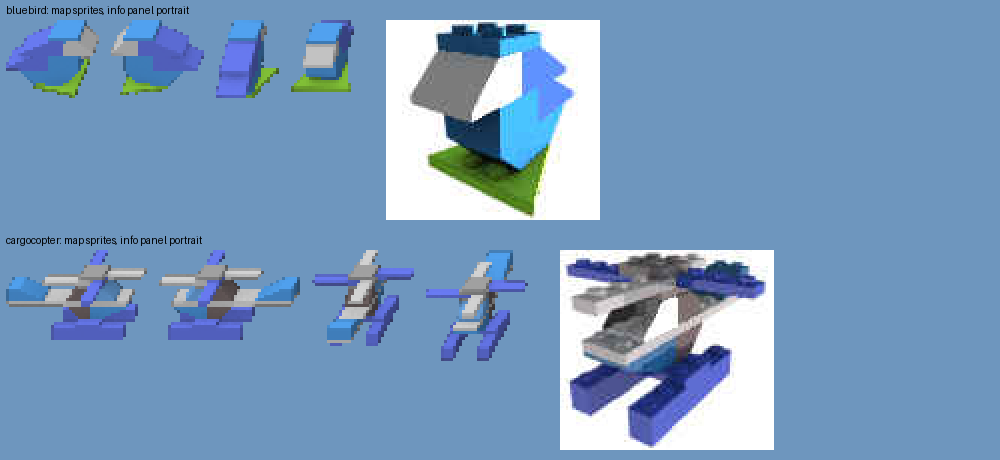
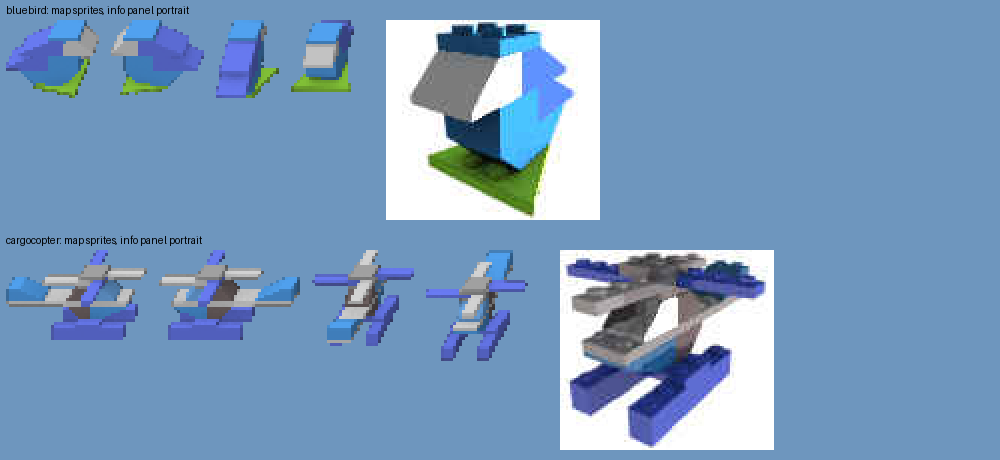
The Airport is the control tower, lit as the robot lab is
- The Airport unit renders our control tower model, framed and lit as
  the game's robot lab is; the building and group variants dropped.
- Borrowed rigs keep the lender's own white, and a colour carried over
  is at least as strong as the lender's own saturated colours (the
  tower's red roof was maroon).
- Showcase: the Airport beside the robot lab; portraits re-rendered.

Changed region(s): [[0.558, 0.6391, 0.744, 0.7913], [0.558, 0.5783, 0.682, 0.7], [0.682, 0.5478, 0.713, 0.5783]]

diff --git a/tools/showcase.py b/tools/showcase.py
@@ -96,12 +96,9 @@ def main():
         c.paste(hero.resize((hero.width * 2, hero.height * 2), Image.NEAREST), (x + 20, yy))
         y += max(max(i.height * S for i in s_), hero.height * 2) + 30
     c.save(os.path.join(OUT, 'new_units.png'))
-    # the Airport, our own models, beside the game's buildings each is framed as
-    cols = [('house (game)', os.path.join(HERE, 'reference', 'building.house.png'), os.path.join(HERE, 'reference', 'building.house.hero.png')),
-            ('airport', out('airport', 'building.airport.png'), out('airport', 'building.airport.hero.png')),
-            ('airport building', out('airport_building', 'building.airport_building.png'), out('airport_building', 'building.airport_building.hero.png')),
-            ('robot lab (game)', os.path.join(HERE, 'reference', 'building.robot_lab.png'), os.path.join(HERE, 'reference', 'building.robot_lab.hero.png')),
-            ('control tower', out('airport_tower', 'building.airport_tower.png'), out('airport_tower', 'building.airport_tower.hero.png'))]
+    # the Airport, the control tower of our own models, beside the game's robot lab it is framed as
+    cols = [('robot lab (game)', os.path.join(HERE, 'reference', 'building.robot_lab.png'), os.path.join(HERE, 'reference', 'building.robot_lab.hero.png')),
+            ('airport (control tower)', out('airport', 'building.airport.png'), out('airport', 'building.airport.hero.png'))]
     S2 = 2
     ims = [(n, Image.open(a).convert('RGBA'), Image.open(b).convert('RGB')) for n, a, b in cols]
     W = sum(max(a.width * S, b.width * S2) + 14 for _, a, b in ims) + 10

diff --git a/wbrender/heronormal.py b/wbrender/heronormal.py
@@ -130,7 +130,7 @@ def settings(unit=None, rig_from=None):
                 for c, v in lender.get('colours', {}).items():
                     # (not black and the greys: the references' are unreliable -- built otherwise than the
                     # game's, or fitted on a few dark pixels: the tugboat's black is 2,2,2)
-                    if c in DISTRUST:
+                    if c in DISTRUST and c != '15':     # (a lender's white is its own white plate's: kept)
                         continue
                     w_ = Wp.get(c)
                     if w_ is not None and c not in DISTRUST:
@@ -175,6 +175,11 @@ def settings(unit=None, rig_from=None):
                         if w_ is not None:
                             w_ = np.array(w_, np.float32)
                             ok = ok and np.abs(v_ / max(1.0, v_.sum()) - w_ / max(1.0, w_.sum())).max() <= 0.1
+                        # (nor one far dimmer than the lender's own saturated colours: the game's reds are as
+                        # vivid as its blues -- carried through a dim one, the control tower's red came out maroon)
+                        strong = [max(v2) for k2, v2 in lender.get('colours', {}).items() if k2 not in NEUTRAL and max(v2) <= 280]
+                        if ok and strong and c not in NEUTRAL and v_.max() < float(np.median(strong)):
+                            v_ = v_ * (float(np.median(strong)) / max(v_.max(), 1.0))
                         if ok:
                             P['colours'][c] = [int(round(x)) for x in v_]
                 P['trusted'] = list(P['colours'])

diff --git a/README.md b/README.md
@@ -38,8 +38,8 @@ lighting and the colours were all measured on the game's own sprites and portrai
 - The renders of JappaWakka's models in the showcase (the buggy, the dirtbuggy, the bluebird, the
   cargo copter ...) are of their work.
 - **The Airport** is our own: hand-built Stud.io models (`extra/`) after the airport in LEGO set
-  4028, *World of Bricks*, the set the game's Cargo Copter comes from: the airport building, the
-  control tower and the runway lights, and the three together.
+  4028, *World of Bricks*, the set the game's Cargo Copter comes from (an airport building, a
+  control tower and runway lights). The Airport unit is the control tower.
 - [ImportLDraw](https://github.com/TobyLobster/ImportLDraw) (Toby Nelson, GPL-2.0) imports the
   models into Blender; the [LDraw](https://www.ldraw.org/) parts library supplies the parts.
 - [Blender MCP](https://github.com/ahujasid/blender-mcp) (Siddharth Ahuja) lets an AI assistant
@@ -189,12 +189,11 @@ hover over a shadow:
 
 ![The Bluebird, the Cargo Copter and the Airport](docs/showcase/new_units.png)
 
-The Airport, our own models after LEGO set 4028 (`extra/`), each framed as a building of the
-game's: all three together and the building alone as the house is, the control tower as the robot
-lab is (their map cameras, portrait cameras and portrait lighting, `like` in `config/units.json`),
-each brought to the size of its reference's sprite:
+The Airport: the control tower of our own models after LEGO set 4028 (`extra/`), framed as the
+game's robot lab is (its map camera, portrait camera and portrait lighting: `like` and
+`hero_rig_from` in `config/units.json`) and brought to the size of its sprite:
 
-![The Airport: together, the building, the control tower](docs/showcase/airport.png)
+![The Airport beside the game's robot lab](docs/showcase/airport.png)
 
 The game's portraits are inconsistent: some show another build than the map's model (the buggy,
 the dirtbuggy), and the freighter's shows the tugboat. With *consistent* portraits, each is
